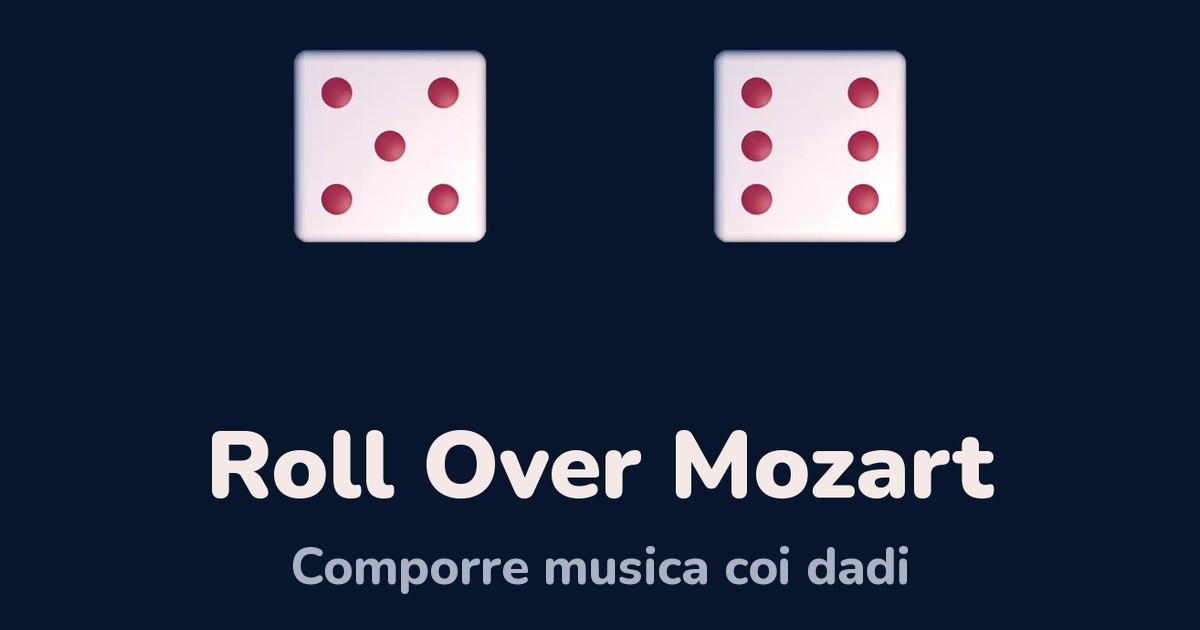
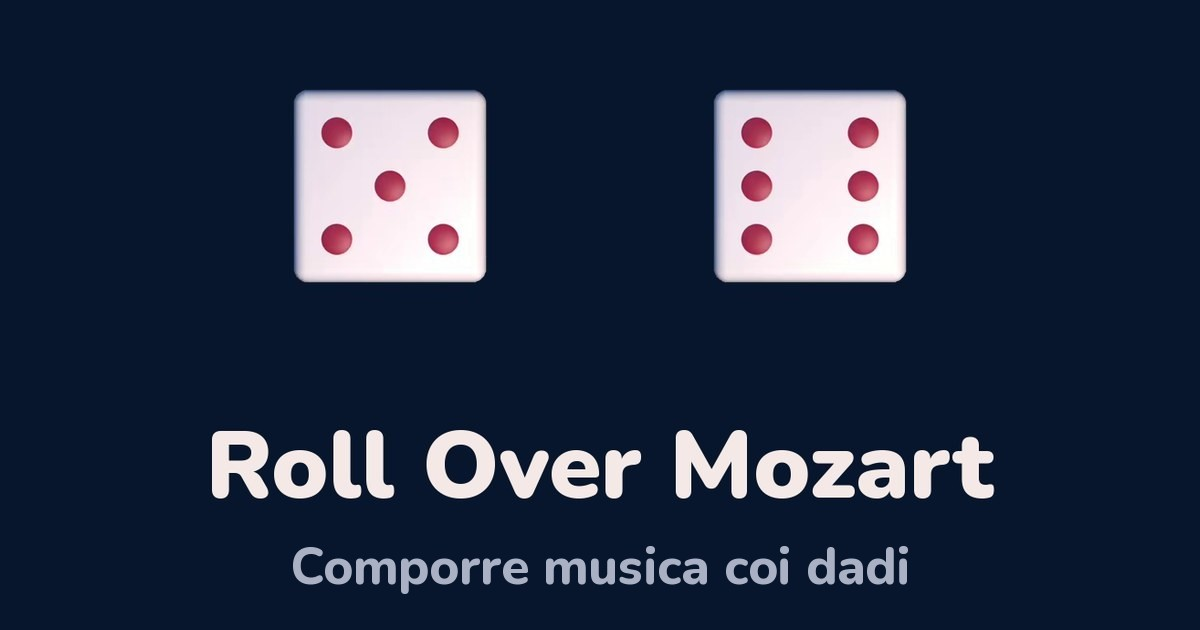
Open Graph: meer ruimte boven

Changed region(s): [[0.2467, 0.0603, 0.4317, 0.4524], [0.5858, 0.0603, 0.7708, 0.4524]]

diff --git a/fr/index.html b/fr/index.html
@@ -10,7 +10,7 @@
 <meta property="og:title" content="Roll Over Mozart: Composez avec des dés">
 <meta property="og:description" content="Quatre jeux de dés imprimés au dix-huitième siècle, joués tels qu’ils ont paru. Lancez et écoutez une pièce que personne n’a entendue. Gardez-la en MIDI ou en partition.">
 <meta property="og:url" content="https://antonpieter.github.io/rollovermozart/fr/">
-<meta property="og:image" content="https://antonpieter.github.io/rollovermozart/img/fr/og.jpg">
+<meta property="og:image" content="https://antonpieter.github.io/rollovermozart/img/fr/og.jpg?v=2">
 <meta property="og:image:width" content="1200">
 <meta property="og:image:height" content="630">
 <meta property="og:locale" content="fr_FR">

diff --git a/de/index.html b/de/index.html
@@ -10,7 +10,7 @@
 <meta property="og:title" content="Roll Over Mozart: Komponieren mit Würfeln">
 <meta property="og:description" content="Vier gedruckte Würfelspiele aus dem achtzehnten Jahrhundert, gespielt, wie sie erschienen. Würfeln und ein Stück hören, das niemand je hörte. Als MIDI oder Noten sichern.">
 <meta property="og:url" content="https://antonpieter.github.io/rollovermozart/de/">
-<meta property="og:image" content="https://antonpieter.github.io/rollovermozart/img/de/og.jpg">
+<meta property="og:image" content="https://antonpieter.github.io/rollovermozart/img/de/og.jpg?v=2">
 <meta property="og:image:width" content="1200">
 <meta property="og:image:height" content="630">
 <meta property="og:locale" content="de_DE">

diff --git a/nl/index.html b/nl/index.html
@@ -10,7 +10,7 @@
 <meta property="og:title" content="Roll Over Mozart: Componeer met dobbelstenen">
 <meta property="og:description" content="Vier gedrukte dobbelspellen uit de achttiende eeuw, gespeeld zoals ze verschenen. Gooi en hoor een stuk dat niemand eerder hoorde. Bewaar het als MIDI of bladmuziek.">
 <meta property="og:url" content="https://antonpieter.github.io/rollovermozart/nl/">
-<meta property="og:image" content="https://antonpieter.github.io/rollovermozart/img/nl/og.jpg">
+<meta property="og:image" content="https://antonpieter.github.io/rollovermozart/img/nl/og.jpg?v=2">
 <meta property="og:image:width" content="1200">
 <meta property="og:image:height" content="630">
 <meta property="og:locale" content="nl_NL">

diff --git a/es/index.html b/es/index.html
@@ -10,7 +10,7 @@
 <meta property="og:title" content="Roll Over Mozart: Componer música con dados">
 <meta property="og:description" content="Cuatro juegos de dados impresos en el siglo XVIII, tal como se publicaron. Tira y escucha una pieza que nadie ha oído antes. Guárdala en MIDI o en partitura.">
 <meta property="og:url" content="https://antonpieter.github.io/rollovermozart/es/">
-<meta property="og:image" content="https://antonpieter.github.io/rollovermozart/img/es/og.jpg">
+<meta property="og:image" content="https://antonpieter.github.io/rollovermozart/img/es/og.jpg?v=2">
 <meta property="og:image:width" content="1200">
 <meta property="og:image:height" content="630">
 <meta property="og:locale" content="es_ES">

diff --git a/pt/index.html b/pt/index.html
@@ -10,7 +10,7 @@
 <meta property="og:title" content="Roll Over Mozart: Compor música com dados">
 <meta property="og:description" content="Quatro jogos de dados impressos no século XVIII, jogados tal como saíram. Lance e ouça uma peça que ninguém ouviu antes. Guarde-a em MIDI ou em partitura.">
 <meta property="og:url" content="https://antonpieter.github.io/rollovermozart/pt/">
-<meta property="og:image" content="https://antonpieter.github.io/rollovermozart/img/pt/og.jpg">
+<meta property="og:image" content="https://antonpieter.github.io/rollovermozart/img/pt/og.jpg?v=2">
 <meta property="og:image:width" content="1200">
 <meta property="og:image:height" content="630">
 <meta property="og:locale" content="pt_PT">

diff --git a/it/index.html b/it/index.html
@@ -10,7 +10,7 @@
 <meta property="og:title" content="Roll Over Mozart: Comporre musica coi dadi">
 <meta property="og:description" content="Quattro giochi di dadi a stampa del Settecento, giocati come uscirono. Tira e ascolta un pezzo che nessuno ha mai sentito. Tienilo in MIDI o come spartito.">
 <meta property="og:url" content="https://antonpieter.github.io/rollovermozart/it/">
-<meta property="og:image" content="https://antonpieter.github.io/rollovermozart/img/it/og.jpg">
+<meta property="og:image" content="https://antonpieter.github.io/rollovermozart/img/it/og.jpg?v=2">
 <meta property="og:image:width" content="1200">
 <meta property="og:image:height" content="630">
 <meta property="og:locale" content="it_IT">

diff --git a/index.html b/index.html
@@ -10,7 +10,7 @@
 <meta property="og:title" content="Roll Over Mozart: Compose music with dice">
 <meta property="og:description" content="Four printed dice games from the seventeen hundreds, played as published. Roll, and hear a piece nobody has heard before. Keep it as MIDI or sheet music.">
 <meta property="og:url" content="https://antonpieter.github.io/rollovermozart/">
-<meta property="og:image" content="https://antonpieter.github.io/rollovermozart/img/en/og.jpg">
+<meta property="og:image" content="https://antonpieter.github.io/rollovermozart/img/en/og.jpg?v=2">
 <meta property="og:image:width" content="1200">
 <meta property="og:image:height" content="630">
 <meta property="og:locale" content="en_GB">
